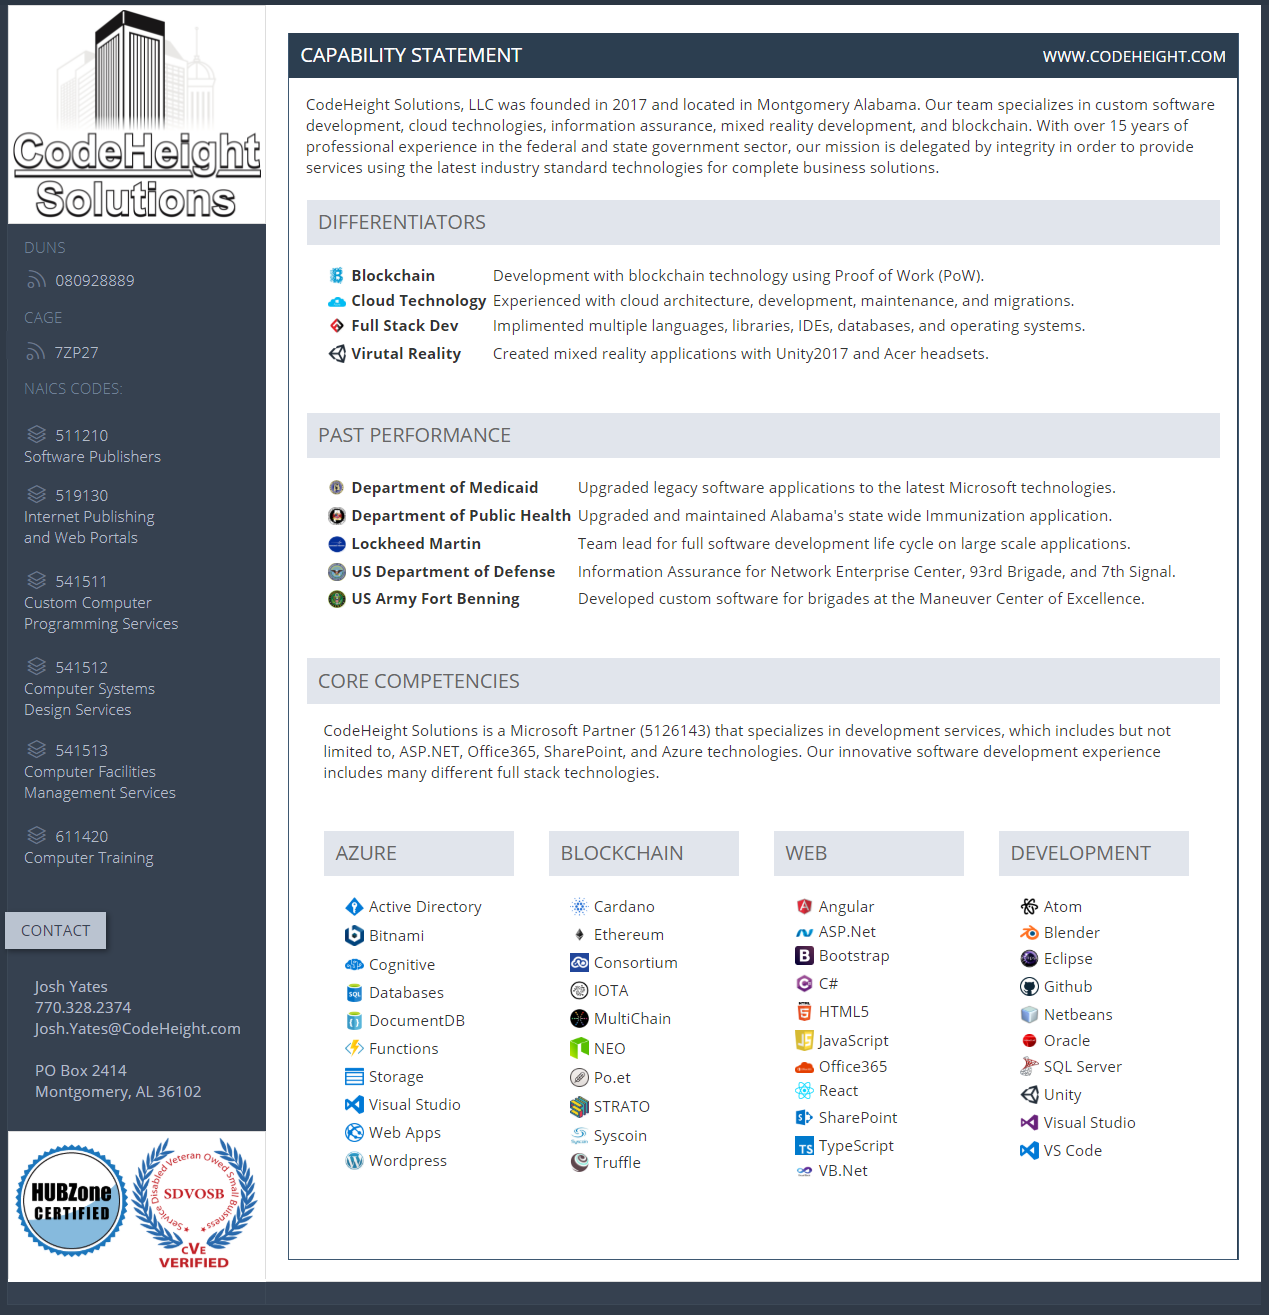
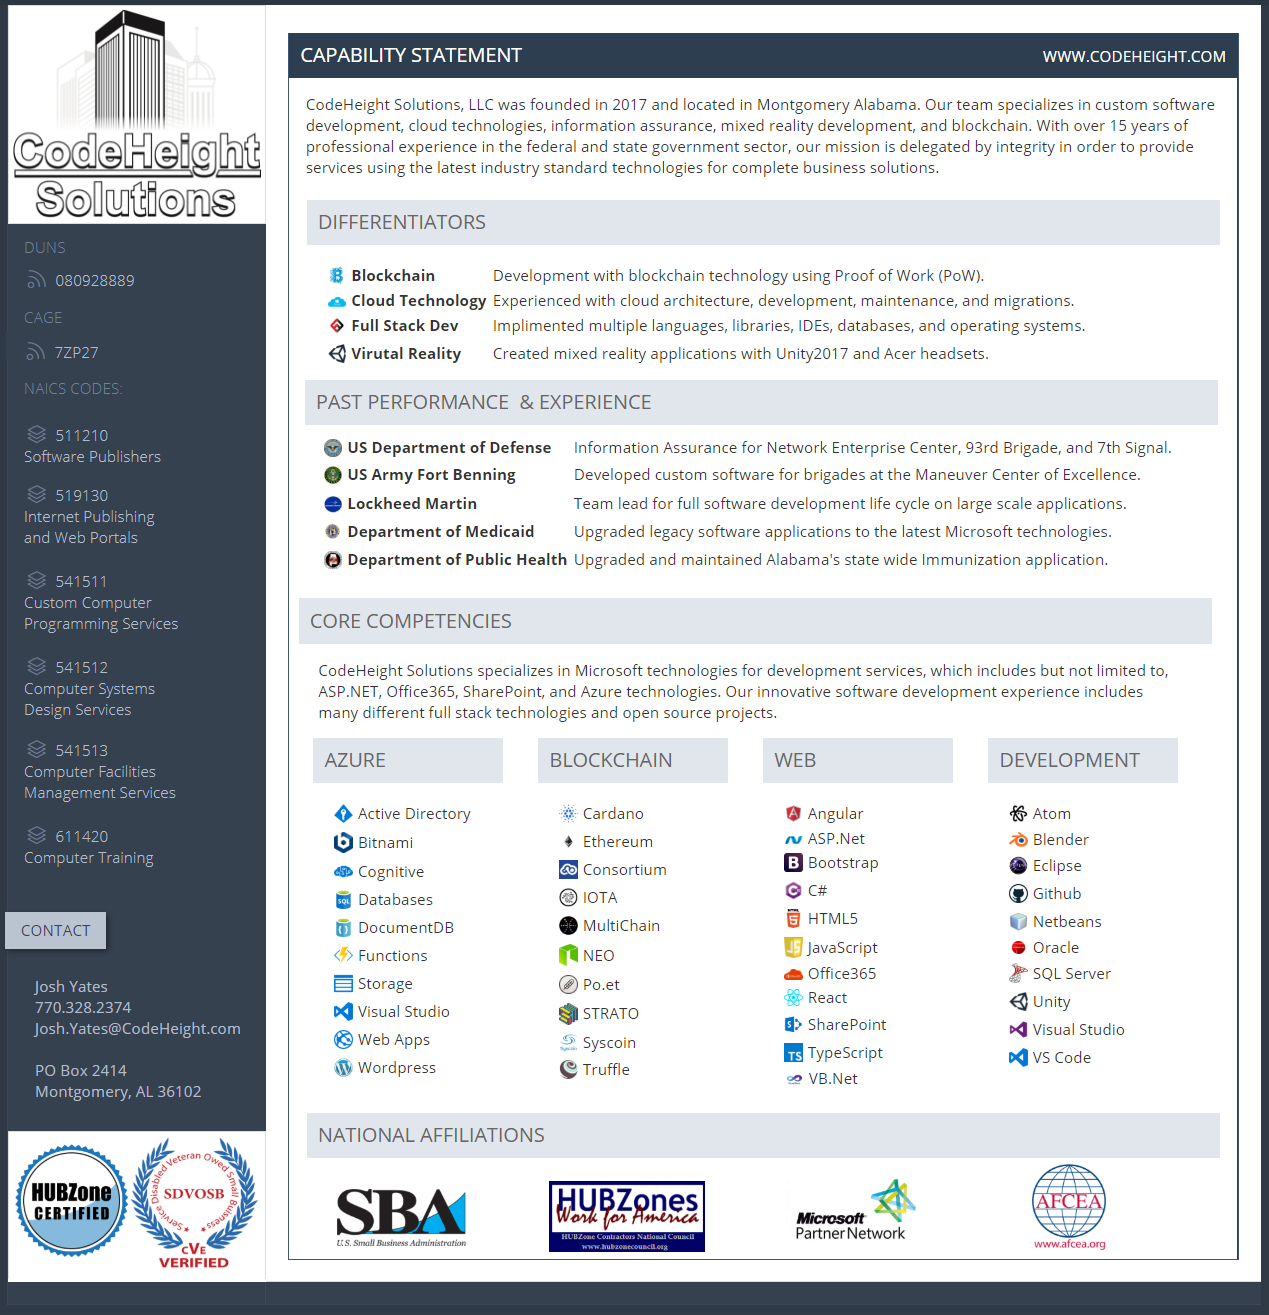
Updated version 2.1

Changed region(s): [[0.2151, 0.2806, 0.9835, 0.9665]]

diff --git a/web/index.html b/web/index.html
@@ -254,44 +254,12 @@
                                                 <div class="portlet box default">
                                                     <div class="portlet-title">
                                                         <div class="caption">
-                                                            PAST PERFORMANCE</div>
+                                                            PAST PERFORMANCE & EXPERIENCE</div>
                                                     </div>
                                                     <div class="portlet-body">
                                                         <div class="scroller">
                                                             <table>
                                                                 <tbody>
-                                                                    <tr>
-                                                                        <td>
-                                                                            <img src="..\assets\images\State\medicaid.gif" alt="Department of Medicaid" class="img-thumbnail-azure" />
-                                                                        </td>
-                                                                        <td>
-                                                                            <b>Department of Medicaid</b>
-                                                                        </td>
-                                                                        <td style="padding-left: 5px;">Upgraded legacy software applications to the latest
-                                                                            Microsoft technologies. </td>
-                                                                    </tr>
-                                                                    <tr>
-                                                                        <td>
-                                                                            <img src="..\assets\images\State\PublicHealth.png" alt="Department of Public Health" class="img-thumbnail-azure" />
-                                                                        </td>
-                                                                        <td>
-                                                                            <b>Department of Public Health</b>
-                                                                        </td>
-                                                                        <td style="padding-left: 5px;">Upgraded and maintained Alabama's state wide Immunization
-                                                                            application.
-                                                                        </td>
-                                                                    </tr>
-                                                                    <tr>
-                                                                        <td>
-                                                                            <img src="..\assets\images\Federal\lockheed.png" alt="Lockheed Martin" class="img-thumbnail-azure" />
-                                                                        </td>
-                                                                        <td>
-                                                                            <b>Lockheed Martin</b>
-                                                                        </td>
-                                                                        <td style="padding-left: 5px;">Team lead for full software development life cycle
-                                                                            on large scale applications.
-                                                                        </td>
-                                                                    </tr>
                                                                     <tr>
                                                                         <td>
                                                                             <img src="..\assets\images\Federal\dod.jpg" alt="US Department of Defense" class="img-thumbnail-azure" />
@@ -313,6 +281,38 @@
                                                                             Center of Excellence.
                                                                         </td>
                                                                     </tr>
+                                                                    <tr>
+                                                                        <td>
+                                                                            <img src="..\assets\images\Federal\lockheed.png" alt="Lockheed Martin" class="img-thumbnail-azure" />
+                                                                        </td>
+                                                                        <td>
+                                                                            <b>Lockheed Martin</b>
+                                                                        </td>
+                                                                        <td style="padding-left: 5px;">Team lead for full software development life cycle
+                                                                            on large scale applications.
+                                                                        </td>
+                                                                    </tr>
+                                                                    <tr>
+                                                                        <td>
+                                                                            <img src="..\assets\images\State\medicaid.gif" alt="Department of Medicaid" class="img-thumbnail-azure" />
+                                                                        </td>
+                                                                        <td>
+                                                                            <b>Department of Medicaid</b>
+                                                                        </td>
+                                                                        <td style="padding-left: 5px;">Upgraded legacy software applications to the latest
+                                                                            Microsoft technologies. </td>
+                                                                    </tr>
+                                                                    <tr>
+                                                                        <td>
+                                                                            <img src="..\assets\images\State\PublicHealth.png" alt="Department of Public Health" class="img-thumbnail-azure" />
+                                                                        </td>
+                                                                        <td>
+                                                                            <b>Department of Public Health</b>
+                                                                        </td>
+                                                                        <td style="padding-left: 5px;">Upgraded and maintained Alabama's state wide Immunization
+                                                                            application.
+                                                                        </td>
+                                                                    </tr>
                                                                 </tbody>
                                                             </table>
                                                         </div>
@@ -330,11 +330,11 @@
                                                     </div>
                                                     <div class="portlet-body">
                                                         <div class="scroller">
-                                                            <p>CodeHeight Solutions is a Microsoft Partner (5126143) that specializes
-                                                                in development services, which includes but not limited to,
+                                                            <p>CodeHeight Solutions specializes in Microsoft technologies for
+                                                                development services, which includes but not limited to,
                                                                 ASP.NET, Office365, SharePoint, and Azure technologies. Our
                                                                 innovative software development experience includes many
-                                                                different full stack technologies.  
+                                                                different full stack technologies and open source projects.
                                                             </p>
                                                             <div class="row">
                                                                 <div class="col-md-3">
@@ -647,6 +647,51 @@
                                                                         </div>
                                                                     </div>
                                                                     <!-- END Portlet PORTLET-->
+                                                                </div>
+                                                            </div>
+                                                        </div>
+                                                    </div>
+                                                </div>
+                                            </div>
+                                        </div>
+                                        <div class="row">
+                                            <div class="col-md-12">
+                                                <!-- BEGIN Portlet PORTLET-->
+                                                <div class="portlet box default">
+                                                    <div class="portlet-title">
+                                                        <div class="caption">
+                                                            NATIONAL AFFILIATIONS</div>
+                                                    </div>
+                                                    <div class="portlet-body">
+                                                        <div class="scroller">
+                                                            <div class="row">
+                                                                <div class="col-md-3">
+                                                                    <div class="portlet box default">
+                                                                        <div class="portlet-body">
+                                                                            <img src="..\assets\images\Affiliations\sba-logo.png" alt="SBA" class="img-thumbnail-sba" />
+                                                                        </div>
+                                                                    </div>
+                                                                </div>
+                                                                <div class="col-md-3">
+                                                                    <div class="portlet box default">
+                                                                        <div class="portlet-body">
+                                                                            <img src="..\assets\images\Affiliations\hubzone.png" alt="HUBZone" class="img-thumbnail-hubzone" />
+                                                                        </div>
+                                                                    </div>
+                                                                </div>
+                                                                <div class="col-md-3">
+                                                                    <div class="portlet box default">
+                                                                        <div class="portlet-body">
+                                                                            <img src="..\assets\images\Affiliations\microsoft.jpg" alt="Microsoft" class="img-thumbnail-microsoft" />
+                                                                        </div>
+                                                                    </div>
+                                                                </div>
+                                                                <div class="col-md-3">
+                                                                    <div class="portlet box default">
+                                                                        <div class="portlet-body">
+                                                                            <img src="..\assets\images\Affiliations\afcea.jpg" alt="AFCEA" class="img-thumbnail-afcea" />
+                                                                        </div>
+                                                                    </div>
                                                                 </div>
                                                             </div>
                                                         </div>

diff --git a/assets/layouts/layout/css/custom.css b/assets/layouts/layout/css/custom.css
@@ -17,3 +17,55 @@
     display: inline-block;
     height: auto;
 }
+
+.img-thumbnail-sba {
+    width: 125px;
+    padding: 4px;
+    line-height: 1.42857;
+    border: 0px;
+    border-radius: 4px;
+    -webkit-transition: all .2s ease-in-out;
+    -o-transition: all .2s ease-in-out;
+    transition: all .2s ease-in-out;
+    display: inline-block;
+    height: auto; 
+}
+
+.img-thumbnail-hubzone {
+    width: 150px;
+    padding: 4px;
+    line-height: 1.42857;
+    border: 0px;
+    border-radius: 4px;
+    -webkit-transition: all .2s ease-in-out;
+    -o-transition: all .2s ease-in-out;
+    transition: all .2s ease-in-out;
+    display: inline-block;
+    height: auto; 
+}
+
+.img-thumbnail-microsoft {
+    width: 175px;
+    padding: 4px;
+    line-height: 1.42857;
+    border: 0px;
+    border-radius: 4px;
+    -webkit-transition: all .2s ease-in-out;
+    -o-transition: all .2s ease-in-out;
+    transition: all .2s ease-in-out;
+    display: inline-block;
+    height: auto; 
+}
+
+.img-thumbnail-afcea {
+    width: 75px;
+    padding: 4px;
+    line-height: 1.42857;
+    border: 0px;
+    border-radius: 4px;
+    -webkit-transition: all .2s ease-in-out;
+    -o-transition: all .2s ease-in-out;
+    transition: all .2s ease-in-out;
+    display: inline-block;
+    height: auto; 
+}
